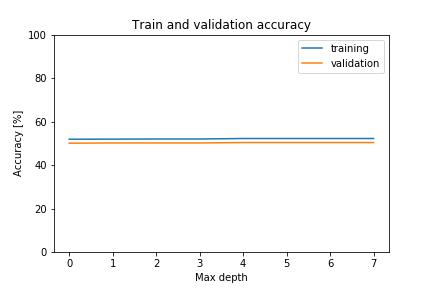
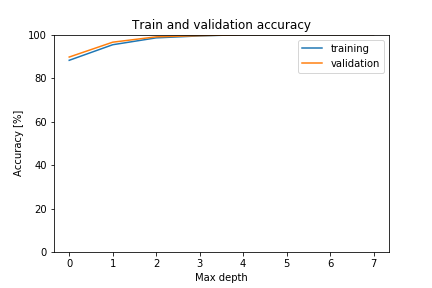
fixed gini bug

Changed region(s): [[0.1505, 0.4688, 0.8727, 0.5], [0.1505, 0.0938, 0.5718, 0.2188]]

diff --git a/I3_Trees/part1.py b/I3_Trees/part1.py
@@ -34,13 +34,14 @@ class DecisionTree:
             
             df_0 = df[df.eval(split_on) == 0]
             df_1 = df[df.eval(split_on) == 1]
-#            print("length of df0 and df1:", len(df_0), len(df_1))
+            print("length of df0 and df1:", len(df_0), len(df_1))
             
             depth += 1
-#            print(depth)
+            print(depth)
             
-            ans_0 = self.make_decisiontree(df_0, depth)
             ans_1 = self.make_decisiontree(df_1, depth)
+            ans_0 = self.make_decisiontree(df_0, depth)
+            
             
             tree[str(split_on)].append(ans_0)
             tree[str(split_on)].append(ans_1)
@@ -105,7 +106,7 @@ class DecisionTree:
         n_0 = len(df) - n_1 # remainder are edible
         
         #branch is df of feature = 0 or 1 (result)
-        branch = df[df.eval(feature) != feature_result]
+        branch = df[df.eval(feature) == feature_result]
         branch_n_1 = sum(branch["Class"])
         branch_n_0 = len(branch) - branch_n_1
         
@@ -123,8 +124,8 @@ class DecisionTree:
             df_ex = df[df.index == i].drop("Class", axis = 1) #single example as df
             y_pred = self.predict(df_ex, model_tree) #prediction of example using model dec tree
             predictions.append(y_pred) 
-            
-#        print(predictions)
+     
+        print(len(predictions), len(y_labels))
         correct = 0
         for i in range(len(predictions)):
             if predictions[i] == y_labels[i]:
@@ -164,7 +165,7 @@ class DecisionTree:
         plt.title("Train and validation accuracy")
         plt.legend()
 #        plt.show()
-        plt.savefig('fig/part1/train_validation_accuracy.png')
+        plt.savefig('fig/part1/train_validation_accuracy_10-15.png')
 #        plt.close(fig)
 
 if __name__ == "__main__":
@@ -178,38 +179,38 @@ if __name__ == "__main__":
     df_valid.columns = [col.replace("-", "").replace("class", "Class").replace("?", "unk") for col in df_valid.columns]
     df_test.columns = [col.replace("-", "").replace("?", "unk") for col in df_test.columns]
     
-    # remove columns where value is same for all molecules
-#    nunique = df_train.apply(pd.Series.nunique)
-#    cols_to_drop = list(nunique[nunique == 1].index)
-#    df_train = df_train.drop(cols_to_drop, axis=1)
-#    df_valid = df_valid.drop(cols_to_drop, axis = 1)
-#    df_test = df_test.drop(cols_to_drop, axis = 1)
+    # remove columns where value is same for all molecules - ex: veil-type_p
+    nunique = df_train.apply(pd.Series.nunique)
+    cols_to_drop = list(nunique[nunique == 1].index)
+    df_train = df_train.drop(cols_to_drop, axis=1)
+    df_valid = df_valid.drop(cols_to_drop, axis = 1)
+    df_test = df_test.drop(cols_to_drop, axis = 1)
 
     # make decision tree model
-    max_depth = 2
+    max_depth = 5
     DT = DecisionTree(max_depth)
     model_tree = DT.make_decisiontree(df_train)
 
     # predict example
-#    x_test = df_test[df_test.index == 78]
-#    y_pred = DT.predict(x_test, model_tree)
+    x_test = df_test[df_test.index == 78]
+    y_pred = DT.predict(x_test, model_tree)
     
     # validation accuracy
     valid_accuracy = DT.accuracy(df_valid, model_tree)
     print(f"validation accuracy for max depth of {max_depth}:", valid_accuracy)
-    
+#    
     # plot train and validation accuracy for depths 1 -> 8
-    train_acc = []
-    valid_acc = []
-    for i in range(1, 9):
-        DT = DecisionTree(df_train, i)
-        model_tree = DT.make_decisiontree(df_train)
-        
-        train_accuracy = DT.accuracy(df_train, model_tree)
-        valid_accuracy = DT.accuracy(df_valid, model_tree)
-        
-        train_acc.append(train_accuracy)
-        valid_acc.append(valid_accuracy)
-        
-    DT.plot_train_valid_accuracy(train_acc, valid_acc)
+#    train_acc = []
+#    valid_acc = []
+#    for i in range(10, 15):
+#        DT = DecisionTree(i)
+#        model_tree = DT.make_decisiontree(df_train)
+#        
+#        train_accuracy = DT.accuracy(df_train, model_tree)
+#        valid_accuracy = DT.accuracy(df_valid, model_tree)
+#        
+#        train_acc.append(train_accuracy)
+#        valid_acc.append(valid_accuracy)
+#        
+#    DT.plot_train_valid_accuracy(train_acc, valid_acc)
     

diff --git a/I3_Trees/part2.py b/I3_Trees/part2.py
@@ -1,0 +1,53 @@
+#!/usr/bin/env python3
+# -*- coding: utf-8 -*-
+"""
+Created on Wed Nov 20 15:06:15 2019
+
+@author: morgan
+"""
+import numpy as np
+import pandas as pd
+import matplotlib.pyplot as plt
+from pprint import pprint
+from part1 import DecisionTree as DecisionTree
+
+class RandomForest:
+    
+    def __init__(self, n_trees, n_features, max_depth):
+    
+        self.n_trees = n_trees
+        self.max_depth = max_depth
+        self.n_features = n_features
+        
+    def bootstrap(self, df):
+        # sample len(df) with replacement
+        sample_indices = []
+        for a in range(len(df)):
+#        if len(sample_indices) < len(df):
+            index = np.random.randint(len(df))
+            sample_indices.append(index)
+        new_df = df[df.index in sample_indices]
+        
+        return new_df
+        
+
+
+if __name__ == "__main__":
+    
+    df_train = pd.read_csv('pa3_train.csv')
+    df_valid = pd.read_csv('pa3_val.csv')
+    df_test = pd.read_csv('pa3_test.csv')
+    
+    # change column names to remove '-' from col names because of pandas issue, also class-> Class bc of class object, replace '?'
+    df_train.columns = [col.replace("-", "").replace("class", "Class").replace("?", "unk") for col in df_train.columns]
+    df_valid.columns = [col.replace("-", "").replace("class", "Class").replace("?", "unk") for col in df_valid.columns]
+    df_test.columns = [col.replace("-", "").replace("?", "unk") for col in df_test.columns]
+    
+    # remove columns where value is same for all molecules
+    nunique = df_train.apply(pd.Series.nunique)
+    cols_to_drop = list(nunique[nunique == 1].index)
+    df_train = df_train.drop(cols_to_drop, axis=1)
+    df_valid = df_valid.drop(cols_to_drop, axis = 1)
+    df_test = df_test.drop(cols_to_drop, axis = 1)
+
+    rf = RandomForest(1, 2, 3)
